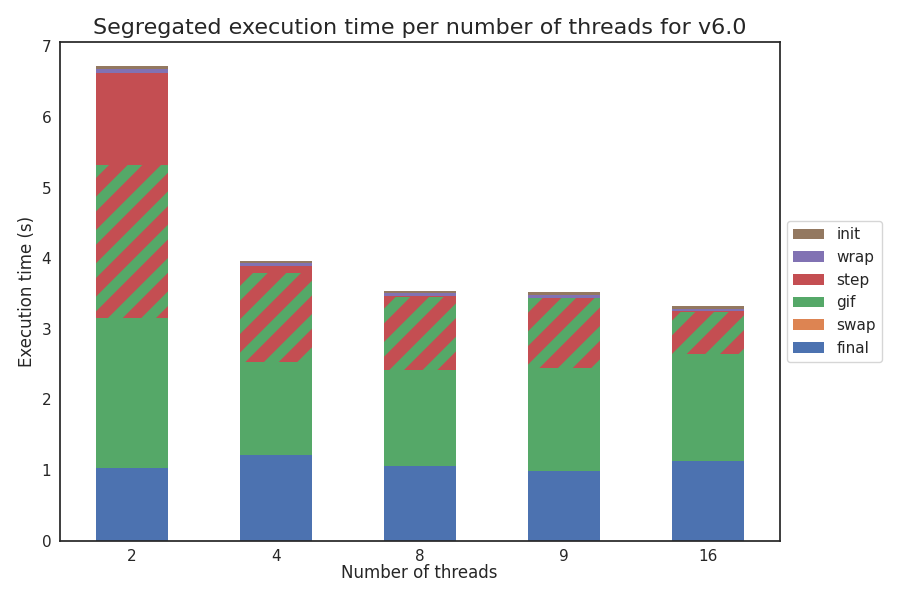
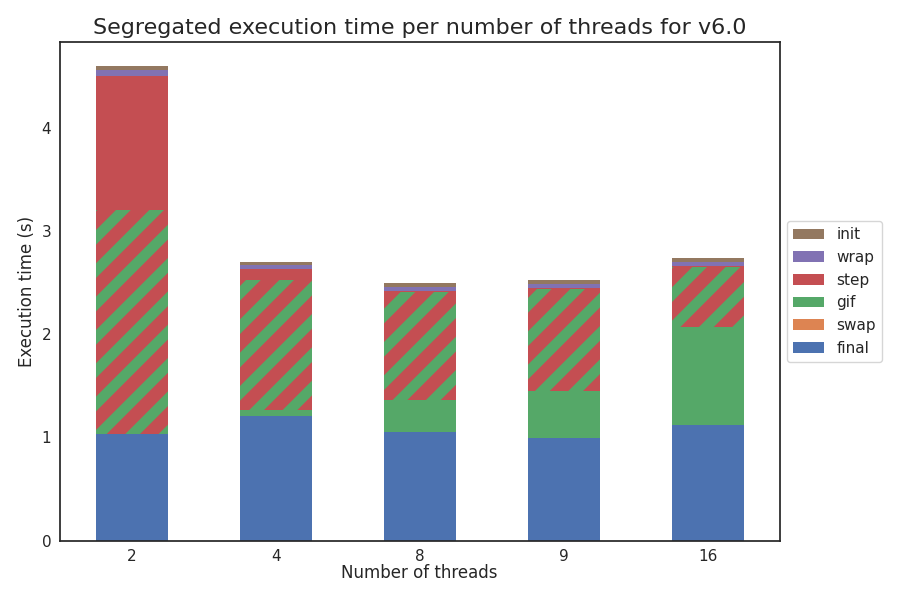
Whoop di fucking whoop: fixed another scaling images

diff --git a/profiler/generate_model_scaling.py b/profiler/generate_model_scaling.py
@@ -67,14 +67,12 @@ def gen_scaling_plot():
 
     # Subtract overlap from step for all rows that do not belong to v7.0.
     # Subtract overlap from gif for the rows of version 7.0.
-    print("Before:\n", df_mean)
     if fversion == "v7.0":
         df_mean["gif"] -= df_mean["overlap"]
     elif mversion >= 6:
         df_mean["gif"] -= df_mean["overlap"]
         df_mean["step"] -= df_mean["overlap"]
         df_mean[df_mean < 0] = 0
-    print("After:\n", df_mean)
 
     # Create DataFrame for the error bars (std).
     df_std = df.pivot_table(index="nthreads",

diff --git a/profiler/generate_scaling.py b/profiler/generate_scaling.py
@@ -70,10 +70,12 @@ def gen_scaling_plot():
 
     if "v7.0" in idxs:
         idxs.remove("v7.0")
-        df_mean.loc["v7.0"]["gif"] = df_mean.loc["v7.0"]["gif"] - df_mean.loc["v7.0"]["overlap"]
+        df_mean.loc["v7.0"]["gif"] -= - df_mean.loc["v7.0"]["overlap"]
 
     for idx in idxs:
         df_mean.loc[idx]["step"] -= df_mean.loc[idx]["overlap"]
+        df_mean.loc[idx]["gif"] -= df_mean.loc[idx]["overlap"]
+        df_mean[df_mean < 0] = 0
 
     # Create DataFrame for the error bars (std).
     df_std = df.pivot_table(index="nthreads",
